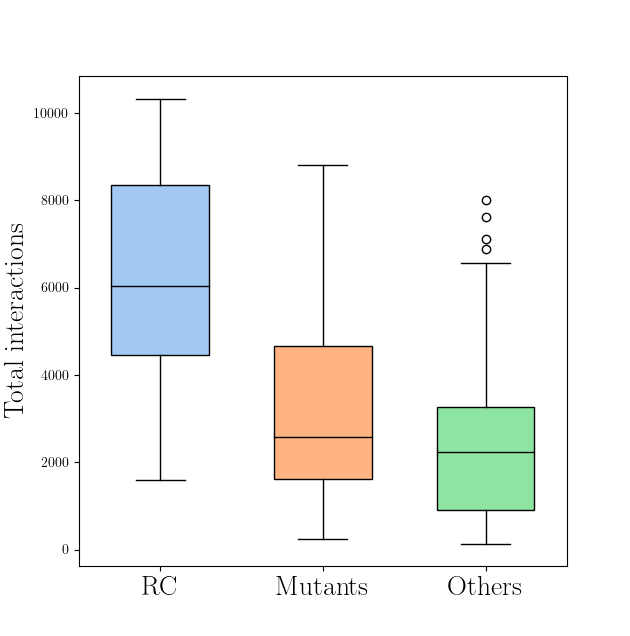
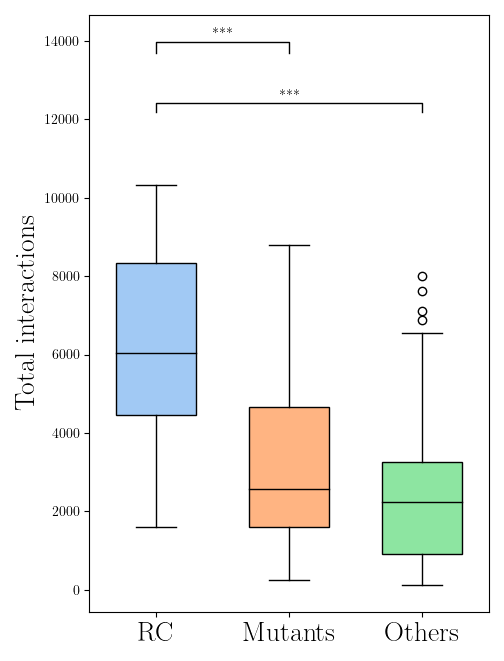
p-values for boxplots

diff --git a/scripts/boxplots.py b/scripts/boxplots.py
@@ -6,6 +6,8 @@ import os
 import sys
 import seaborn as sns
 from weighted_rc import weighted_rich_club
+from scipy import stats
+
 
 sys.path.append('..\\src\\')
 from read_graph import read_graph
@@ -23,6 +25,47 @@ def format_plot(ax, bp):
     for patch, color in zip(bp['boxes'], colors): # set colors
         patch.set_facecolor(color)
     plt.setp(bp['medians'], color='k')
+    
+def add_significance(data, ax, bp):
+    """Computes and adds p-value significance to input ax and boxplot"""
+    # Initialise a list of combinations of groups that are significantly different
+    significant_combinations = []
+    # Check from the outside pairs of boxes inwards
+    ls = list(range(1, len(data) + 1))
+    combinations = [(ls[x], ls[x + y]) for y in reversed(ls) for x in range((len(ls) - y))]
+    for combination in combinations:
+        data1 = data[combination[0] - 1]
+        data2 = data[combination[1] - 1]
+        # Significance
+        U, p = stats.mannwhitneyu(data1, data2, alternative='two-sided')
+        if p < 0.05:
+            significant_combinations.append([combination, p])
+    for i, significant_combination in enumerate(significant_combinations):
+        # Columns corresponding to the datasets of interest
+        x1 = significant_combination[0][0]
+        x2 = significant_combination[0][1]
+        # What level is this bar among the bars above the plot?
+        level = len(significant_combinations) - i
+        # Plot the bar
+        # Get the y-axis limits
+        bottom, top = ax.get_ylim()
+        y_range = top - bottom
+        bar_height = (y_range * 0.07 * level) + top
+        bar_tips = bar_height - (y_range * 0.02)
+        plt.plot(
+            [x1, x1, x2, x2],
+            [bar_tips, bar_height, bar_height, bar_tips], lw=1, c='k'
+        )
+        # Significance level
+        p = significant_combination[1]
+        if p < 0.001:
+            sig_symbol = '***'
+        elif p < 0.01:
+            sig_symbol = '**'
+        elif p < 0.05:
+            sig_symbol = '*'
+        text_height = bar_height + (y_range * 0.01)
+        plt.text((x1 + x2) * 0.5, text_height, sig_symbol, ha='center', va='bottom', c='k')
 
 def boxplot_chasing():
     """
@@ -47,6 +90,7 @@ def boxplot_chasing():
     bp = ax.boxplot(data, widths=0.6, patch_artist=True)
     ax.set_ylabel("Outgoing chasings", fontsize = 20)
     format_plot(ax, bp) # set x_axis, and colors of each bar
+    add_significance(data, ax, bp)
     # bottom, top = ax.get_ylim()
     plt.show()
     
@@ -77,6 +121,7 @@ def boxplot_approaches():
     bp = ax.boxplot(data, widths=0.6, patch_artist=True)
     ax.set_ylabel("Outgoing approaches", fontsize = 20)
     format_plot(ax, bp) # set x_axis, and colors of each bar
+    add_significance(data, ax, bp)
     # bottom, top = ax.get_ylim()
     # ax.set_title("Week 1", fontsize = 25, weight='bold')
     plt.show()
@@ -107,11 +152,12 @@ def boxplot_interactions():
     bp = ax.boxplot(data, widths=0.6, patch_artist=True)
     ax.set_ylabel("Total interactions", fontsize = 20)
     format_plot(ax, bp) # set x_axis, and colors of each bar
+    add_significance(data, ax, bp)
     # bottom, top = ax.get_ylim()
     plt.show()
     
 if __name__ == "__main__":
-    # boxplot_chasing()
+    boxplot_chasing()
     # boxplot_approaches() 
-    boxplot_interactions()
+    # boxplot_interactions()
     
